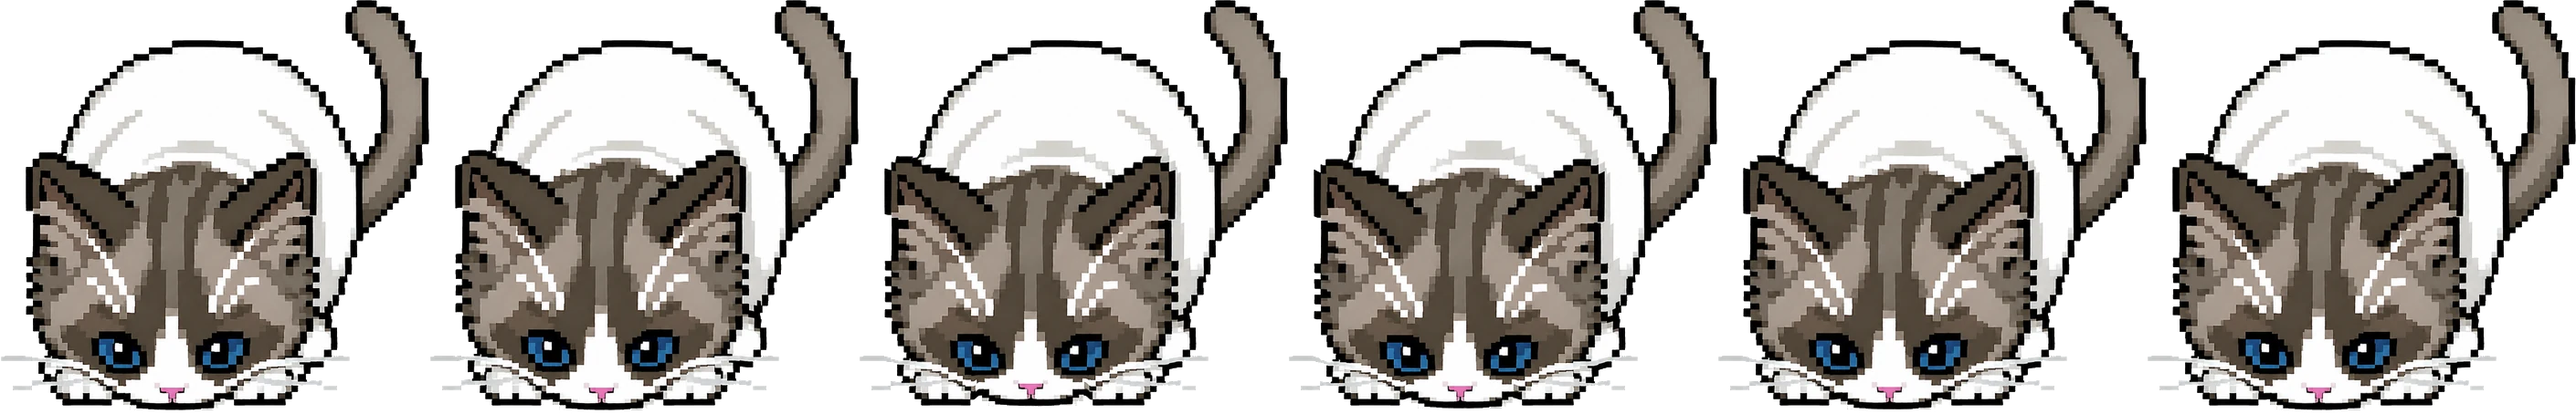
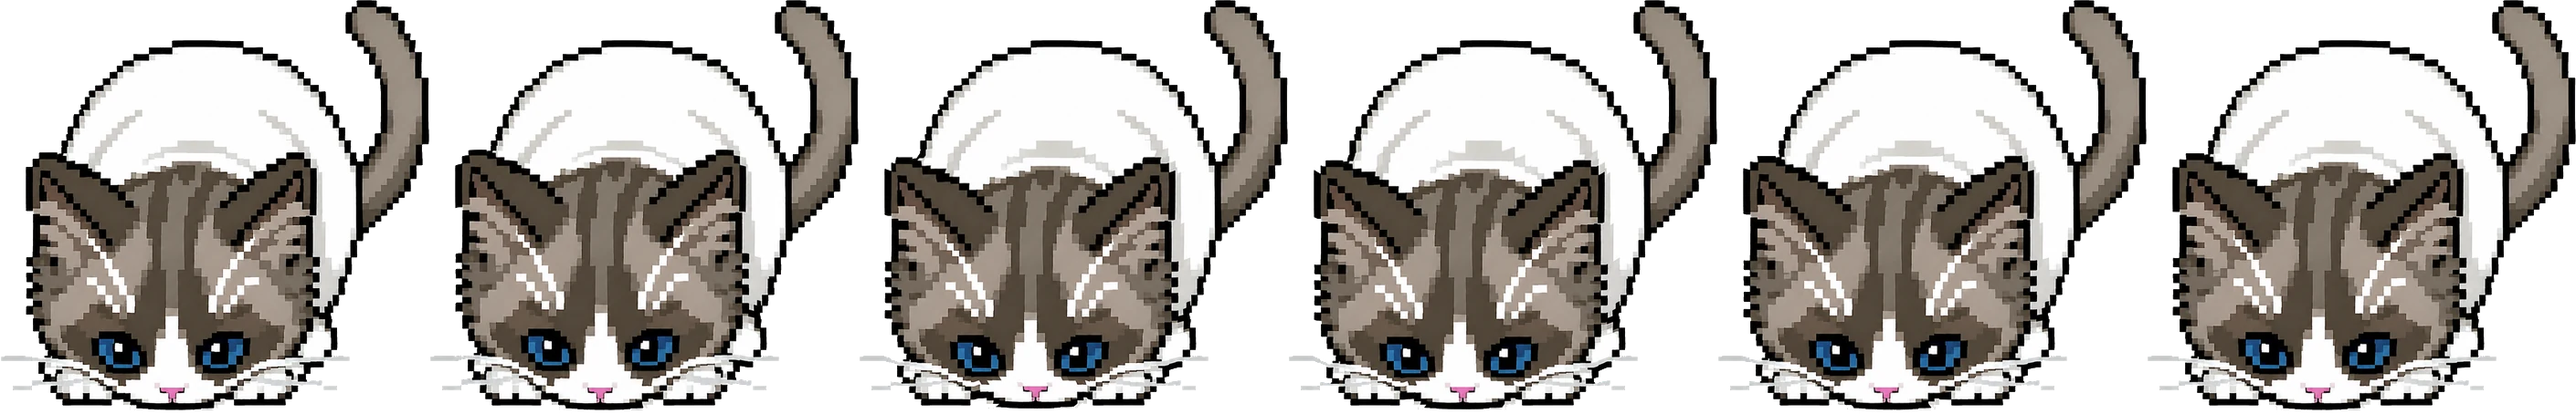
fix(chew): a mouth that pumps up and down is a bottle-feed, not a meal
Feedback on the muzzle fix: "its kind off weird now like he is sucking on it
like a baby would suck on a milk thaats what his mouth doing". Correct, and the
cause is in the previous commit's own description -- it lifted "the nose, the
mouth stem and the chin as one rigid piece". A rigid mouth travelling up and
down its own axis on a rhythm IS suckling. A jaw does not pump, it hinges, and a
cat working through a mouthful grinds side to side.

So the vertical lift drops from 1.3-1.7 CSS px to a 0.4-0.6 accent, and the read
moves to a lateral grind on the same field: zero above the nose bridge, full at
the nose and chin, so the face stays put and the muzzle swings under it. The
clock alternates -- anticipate left, snap right on the bite, hold, swing back
through left, settle.

The geometry hands this over for free, which is why it should have been the
first answer. The vertical budget is fought over by the head press and fenced by
a canvas edge three rows under the chin; sideways there is nothing in the way at
all, because the notches that isolate the muzzle from each paw are 12 to 40px of
empty background and the whole swing lands inside them. Measured on the baked
frames at 140px: 2.25 to 2.73 CSS px side to side, about one art block, against
0.42 to 0.64 of lift.

Three things the rebuild turned up:
- The grind now dies out over the last 12 rows. Poses 1 and 2 rest their chin ON
  the canvas edge, so sliding those rows dragged paint along the border into
[…]

diff --git a/src/lib/erenAnim.ts b/src/lib/erenAnim.ts
@@ -73,7 +73,7 @@ export const EREN_ANIM = {
     canvas: [925, 765],
     rect: { left: 0.0, top: 0.0, width: 100.0, height: 100.0 },
     bodySrc: null,
-    note: 'Chew: the head presses onto a pinned contact line and the snout absorbs it. Rigid from the crown to the iris bottom, so the eyes travel with the skull (2.05 CSS px at 140 wide) and never deform -- iris strain is 0.00% on every frame. The muzzle then pumps on the jaw clock inside its own column window between the paws: the nose travels 1.36 CSS px and the chin with it, while the paws and the tail hold still. Lossy VP8, so the contact band is NOT byte-identical: it decodes within 40/255 of the source and moves at most 24/255 between frames.',
+    note: 'Chew: the head presses onto a pinned contact line and the snout absorbs it. Rigid from the crown to the iris bottom, so the eyes travel with the skull (2.05 CSS px at 140 wide) and never deform -- iris strain is 0.00% on every frame. The muzzle then pumps on the jaw clock inside its own column window between the paws: the nose travels 0.65 CSS px and the chin with it, while the paws and the tail hold still. Lossy VP8, so the contact band is NOT byte-identical: it decodes within 40/255 of the source and moves at most 24/255 between frames.',
   },
   eat2: {
     name: 'eat2',
@@ -86,7 +86,7 @@ export const EREN_ANIM = {
     canvas: [907, 877],
     rect: { left: 0.0, top: 0.0, width: 100.0, height: 100.0 },
     bodySrc: null,
-    note: 'Chew: the head presses onto a pinned contact line and the snout absorbs it. Rigid from the crown to the iris bottom, so the eyes travel with the skull (1.54 CSS px at 140 wide) and never deform -- iris strain is 0.00% on every frame. The muzzle then pumps on the jaw clock inside its own column window between the paws: the nose travels 1.42 CSS px and the chin with it, while the paws and the tail hold still. Lossy VP8, so the contact band is NOT byte-identical: it decodes within 40/255 of the source and moves at most 24/255 between frames.',
+    note: 'Chew: the head presses onto a pinned contact line and the snout absorbs it. Rigid from the crown to the iris bottom, so the eyes travel with the skull (1.54 CSS px at 140 wide) and never deform -- iris strain is 0.00% on every frame. The muzzle then pumps on the jaw clock inside its own column window between the paws: the nose travels 0.65 CSS px and the chin with it, while the paws and the tail hold still. Lossy VP8, so the contact band is NOT byte-identical: it decodes within 40/255 of the source and moves at most 24/255 between frames.',
   },
   eat3: {
     name: 'eat3',
@@ -99,7 +99,7 @@ export const EREN_ANIM = {
     canvas: [848, 796],
     rect: { left: 0.0, top: 0.0, width: 100.0, height: 100.0 },
     bodySrc: null,
-    note: 'Chew: the head presses onto a pinned contact line and the snout absorbs it. Rigid from the crown to the iris bottom, so the eyes travel with the skull (2.05 CSS px at 140 wide) and never deform -- iris strain is 0.00% on every frame. The muzzle then pumps on the jaw clock inside its own column window between the paws: the nose travels 1.66 CSS px and the chin with it, while the paws and the tail hold still. Lossy VP8, so the contact band is NOT byte-identical: it decodes within 40/255 of the source and moves at most 24/255 between frames.',
+    note: 'Chew: the head presses onto a pinned contact line and the snout absorbs it. Rigid from the crown to the iris bottom, so the eyes travel with the skull (2.05 CSS px at 140 wide) and never deform -- iris strain is 0.00% on every frame. The muzzle then pumps on the jaw clock inside its own column window between the paws: the nose travels 0.65 CSS px and the chin with it, while the paws and the tail hold still. Lossy VP8, so the contact band is NOT byte-identical: it decodes within 40/255 of the source and moves at most 24/255 between frames.',
   },
   eat4: {
     name: 'eat4',
@@ -112,7 +112,7 @@ export const EREN_ANIM = {
     canvas: [940, 908],
     rect: { left: 0.0, top: 0.0, width: 100.0, height: 100.0 },
     bodySrc: null,
-    note: 'Chew: the head presses onto a pinned contact line and the snout absorbs it. Rigid from the crown to the iris bottom, so the eyes travel with the skull (1.19 CSS px at 140 wide) and never deform -- iris strain is 0.00% on every frame. The muzzle then pumps on the jaw clock inside its own column window between the paws: the nose travels 1.30 CSS px and the chin with it, while the paws and the tail hold still. Lossy VP8, so the contact band is NOT byte-identical: it decodes within 40/255 of the source and moves at most 24/255 between frames.',
+    note: 'Chew: the head presses onto a pinned contact line and the snout absorbs it. Rigid from the crown to the iris bottom, so the eyes travel with the skull (1.75 CSS px at 140 wide) and never deform -- iris strain is 0.00% on every frame. The muzzle then pumps on the jaw clock inside its own column window between the paws: the nose travels 0.45 CSS px and the chin with it, while the paws and the tail hold still. Lossy VP8, so the contact band is NOT byte-identical: it decodes within 40/255 of the source and moves at most 24/255 between frames.',
   },
 } as const satisfies Record<string, ErenAnim>
 

diff --git a/scripts/anim_eat.py b/scripts/anim_eat.py
@@ -190,7 +190,7 @@ A_TAIL = 0.0              # see the docstring: the tail holds still to eat
 # past about half of that gap the eyes start to sit on the nose (the top rung of
 # the snout ladder, and the same failure this art has always had). Pose 4 is
 # bound by it -- its eye-to-nose span is 44 rows against pose 1's 57.
-TARGET_NOSE = 2.00
+TARGET_NOSE = 0.65
 MAX_CLOSE = 0.46
 # The press and the pump close the SAME eye-to-nose gap, so on a short-gap pose
 # they are in direct competition -- and the press was solved first, which handed
@@ -200,11 +200,39 @@ MAX_CLOSE = 0.46
 # CSS px of pump are reserved off the top and the press takes what is left.
 # Poses 1-3 solve above it anyway and are untouched; only pose 4 pays, and it
 # pays in skull travel, which is the part nobody watches.
-PUMP_RESERVE = 1.40
+PUMP_RESERVE = 0.55
 # The travel the nose has to clear at ship size, in CSS px. Below this it reads
-# as a frozen nose, which was the complaint. solve_pose() buys it with press
-# travel on a pose that cannot afford both.
-PUMP_FLOOR = 1.20
+# as a frozen nose, which was the first complaint. solve_pose() buys it with
+# press travel on a pose that cannot afford both.
+PUMP_FLOOR = 0.45
+
+# -- the grind, and why the vertical pump above is now small --------------------
+# The first build of the pump gave the nose 1.3 to 1.7 CSS px of PURE VERTICAL
+# travel, moving the nose, the mouth and the chin up and down as one rigid
+# block. That is a piston, and a piston on a mouth is suckling, not chewing --
+# "like a baby would suck on a milk, thats what his mouth doing".
+#
+# A jaw does not pump along the face's axis, it HINGES, and a cat grinding
+# through a mouthful works side to side. So the vertical is now an accent
+# (TARGET_NOSE below) and the read is carried laterally, which this geometry
+# hands us for free: the vertical budget is fought over by the press and fenced
+# by a canvas edge three rows under the chin, but sideways the muzzle window has
+# nothing in its way. The notches that isolate it from each paw are 12 to 40 px
+# of empty background, so the whole shift lands inside them and never reaches a
+# paw.
+#
+# Same spatial field as the pump, other axis: zero above the nose bridge, full
+# at the nose and chin, so the face stays put and the muzzle swings under it.
+A_GRIND = 10.0            # source px at GRIND_T = 1, about two thirds of a block
+# Sign alternates: anticipate left, SNAP right on the bite, hold, swing back
+# through left, settle. Frame 0 is 0 because frame 0 is the untouched source,
+# and f5 lands near it so the loop does not jump.
+GRIND_T = [0.00, -0.30, 1.00, 0.55, -0.70, -0.20]
+GRIND_EDGE = 12.0         # rows at the canvas bottom where the grind fades to 0
+# What the muzzle's SIDE-TO-SIDE travel has to clear at ship size, in CSS px,
+# measured on the baked frames. The lateral IS the read now, so this is the
+# assertion standing between a working mouth and another frozen one.
+MUZZLE_FLOOR = 1.60
 # ... and the second ceiling, on the peak PER-ROW compression of the assembled
 # field. It is much higher than MAX_SNOUT and that is not a relaxation: 0.44 is
 # a ceiling on the snout's average rate across a face that carries whisker
@@ -796,6 +824,17 @@ def build_fields(img, m, face_cap=None):
     prof_pump = 1.0 - press_profile(h, pump_top, pump_flat)
     pump = prof_pump[:, None] * W['col'][None, :]
 
+    # The grind shares the pump's field but dies out over the last rows of the
+    # canvas. Two reasons, and they are the same reason: the chin of poses 1 and
+    # 2 sits ON the bottom edge, so sliding those rows sideways drags painted
+    # pixels along the border into cells the source leaves empty -- and a jaw
+    # whose contact point slides is a jaw that is not hinged to anything. Fading
+    # it out pins the chin's contact and lets the mouth swing above it, which is
+    # both what the assertion wants and what a jaw does.
+    edge = L.smoothstep((np.arange(h, dtype=np.float64) - (h - 1 - GRIND_EDGE))
+                        / -float(GRIND_EDGE))
+    grind = pump * edge[:, None]
+
     # Ears: both tips shear the SAME way, by unequal amounts. Shearing them in
     # opposite directions (out, then in) was tried first and read as the whole
     # skull narrowing and widening -- a shrinking cat, not an ear twitch --
@@ -820,7 +859,7 @@ def build_fields(img, m, face_cap=None):
              head_top=head_top, ear_bot=ear_bot, tip=(tip_y, tip_x),
              muz_hw=hw, factor=factor,
              muz_peak=float(np.abs(muz * lock_hard).max()),
-             pump=pump, col_pump=W['col'], a_pump=a_pump, win=W,
+             pump=pump, grind=grind, col_pump=W['col'], a_pump=a_pump, win=W,
              pump_top=pump_top, pump_flat=pump_flat, nose_span=nose_span,
              pump_rate=bridge_rate(a_pump), pump_bound=bound,
              close=(A['face'] + a_pump) / nose_span)
@@ -832,8 +871,8 @@ def frame_at(img, m, F, i):
     """One frame. Frame 0 is the untouched source, by construction and by
     shortcut -- the loop runs through it and other layers register against it."""
     dip_t, jaw_t, muz_t, ear_t = DIP_T[i], JAW_T[i], MUZ_T[i], EAR_T[i]
-    pump_t = PUMP_T[i]
-    if not any((dip_t, jaw_t, muz_t, ear_t, pump_t)):
+    pump_t, grind_t = PUMP_T[i], GRIND_T[i]
+    if not any((dip_t, jaw_t, muz_t, ear_t, pump_t, grind_t)):
         return img.copy(), np.zeros(img.shape[:2]), np.zeros(img.shape[:2])
 
     dy = dip_t * F['dy_dip'] + jaw_t * F['dy_jaw'] + muz_t * F['dy_muz']
@@ -847,6 +886,11 @@ def frame_at(img, m, F, i):
     # rigid piece and not a squashed one -- see build_fields. Minus, so it lifts.
     b = F['pump']
     dy = dy * (1.0 - b) - (pump_t * F['a_pump']) * b
+    # The grind rides the SAME field on the other axis: the muzzle swings under
+    # a face that stays put. It is added, not blended -- there is nothing on the
+    # x axis to blend against, the ear shear is masked to the ears and both are
+    # zero everywhere the other is not.
+    dx = dx + (grind_t * A_GRIND) * F['grind']
 
     out = L.warp(img, dx, dy)
     # Exact, not merely close -- and column-aware, because the pin the scene
@@ -965,6 +1009,19 @@ def pink_cy(f, win):
     return float((w * yy).sum() / w.sum())
 
 
+def pink_cx(f, win):
+    """The same centroid on the other axis. The grind is the muzzle's main
+    motion, so it is the one that has to be measured to prove the mouth works;
+    measuring only dy is what let a build ship with a nose that read as frozen."""
+    y0, y1, x0, x1 = win
+    c = f[y0:y1, x0:x1]
+    a = np.clip(c[..., 3] / 255.0, 0.0, 1.0)
+    w = a * np.clip((c[..., 0] - c[..., 2]) / 40.0, 0.0, 1.0) \
+          * np.clip((c[..., 0] - c[..., 1]) / 40.0, 0.0, 1.0)
+    xx = np.arange(x0, x1, dtype=np.float64)[None, :]
+    return float((w * xx).sum() / w.sum())
+
+
 def report(name, img, m, F, frames, dxs, dys):
     """Re-measure the baked frames with the same detectors that set the
     animation up, and print everything in CSS px at EAT_WIDTH."""
@@ -1038,11 +1095,16 @@ def report(name, img, m, F, frames, dxs, dys):
     cxi = int(round(m['eye_l'][0]))
     # The nose window has to be as tall as the pump, or the centroid saturates
     # as the nose slides out of it and under-reports its own travel.
+    # ... and as WIDE as the grind, for exactly the same reason. It was widened
+    # for the pump and not for the grind, and the centroid duly reported 1.47
+    # CSS px of a 2.57 CSS px swing: the nose was leaving the window sideways.
     nreach = int(np.ceil(F['a_pump'])) + 6
+    nwide = int(np.ceil(A_GRIND * max(abs(t) for t in GRIND_T))) + 6
     nwin = (max(0, int(m['nose_y0']) - nreach), min(h, int(m['nose_y1']) + 5),
-            max(0, int(m['nose_x'] - 0.12 * m['sep'])),
-            min(w, int(m['nose_x'] + 0.12 * m['sep'])))
+            max(0, int(m['nose_x'] - 0.12 * m['sep']) - nwide),
+            min(w, int(m['nose_x'] + 0.12 * m['sep']) + nwide))
     ncy = pink_cy(frames[0], nwin)
+    ncx = pink_cx(frames[0], nwin)
     nxi = int(round(m['nose_x']))
     keep = F['col_pump'] <= 0.0
     pawcols = np.concatenate([F['win']['l']['paw_cols'], F['win']['r']['paw_cols']])
@@ -1061,6 +1123,7 @@ def report(name, img, m, F, frames, dxs, dys):
                                       win[2], win[3]))
         eye = (cy - icy) * css
         nose = (pink_cy(f, nwin) - ncy) * css
+        ndx = (pink_cx(f, nwin) - ncx) * css
         # the feature the compression is quoted against: eye line to nose top,
         # two things anyone can point at on the sprite
         span = 100.0 * ((m0['nose_y0'] - cy) - span0) / span0
@@ -1091,7 +1154,7 @@ def report(name, img, m, F, frames, dxs, dys):
         cm = clip_margin(img, dx, dy)
         clipped = [k for k, v in cm.items() if v < -0.5]
         ok = ok and ident and paws and not clipped and abs(drift) < 1.5 and not gained
-        noses.append((nose, nfield))
+        noses.append((nose, nfield, ndx))
         print('     %d %8.2f %8.2f %8.2f %8.2f %7.1f %7.2f%% | %10.1f%% %10.2f%% %11.2f%% '
               '%9.2f%% | %6.2f%%  %4.1f/%4.1f/%4.1f/%4.1f%s%s%s%s'
               % (i, eye, edy, edx, nose, nfield, nstrain, span, strain, ih, ia, drift,
@@ -1115,8 +1178,9 @@ def report(name, img, m, F, frames, dxs, dys):
         if i == 0:
             assert abs(nose) < 1e-9, 'frame 0 moved the nose %.3f CSS px' % nose
         if i == PUMP_PEAK:
-            assert -nose > 0.75 * TARGET_NOSE or -nose > 0.9 * F['a_pump'] * css, \
-                'the nose only travels %.2f CSS px at the peak' % -nose
+            assert -nose > 0.55 * F['a_pump'] * css, \
+                'the pump asked for %.2f CSS px of lift and the nose moved %.2f' \
+                % (F['a_pump'] * css, -nose)
         # Rigidity, asserted twice and independently: `strain` is geometry (the
         # forward map, above), `spread` and `mass` are the baked pixels (a second
         # moment and a soft-weighted area -- see iris_stats for why a bbox and a
@@ -1146,6 +1210,18 @@ def report(name, img, m, F, frames, dxs, dys):
     print('     nose travel, centroid (field), per frame:  %s'
           % '   '.join('f%d %+.2f CSS / %+.1f src' % (i, n[0], n[1])
                        for i, n in enumerate(noses)))
+    # The number that decides whether the mouth reads at all. The grind is
+    # lateral, so that is the axis the guarantee belongs on -- checking only the
+    # lift is what let a build ship a mouth that pumped like a bottle-feed.
+    grind_p2p = max(n[2] for n in noses) - min(n[2] for n in noses)
+    lift_p2p = max(n[0] for n in noses) - min(n[0] for n in noses)
+    print('     MUZZLE travel at %gpx: %.2f CSS px SIDE TO SIDE (%.2f blocks), '
+          '%.2f CSS px of lift -- lateral floor %.2f'
+          % (EAT_WIDTH_CSS, grind_p2p, grind_p2p / (m['block'] * css),
+             lift_p2p, MUZZLE_FLOOR))
+    assert grind_p2p > MUZZLE_FLOOR, (
+        'the muzzle only grinds %.2f CSS px side to side, under the floor -- it '
+        'will read as a frozen mouth' % grind_p2p)
     print('     nose peak-to-peak: %.2f CSS px = %.2f art blocks; the paw columns it runs '
           'beside (x%d..%d and x%d..%d, %d columns) are bit-identical on every frame'
           % (max(n[0] for n in noses) - min(n[0] for n in noses),
